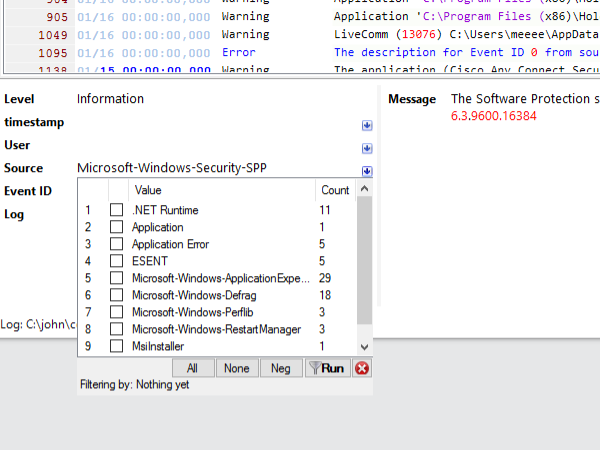
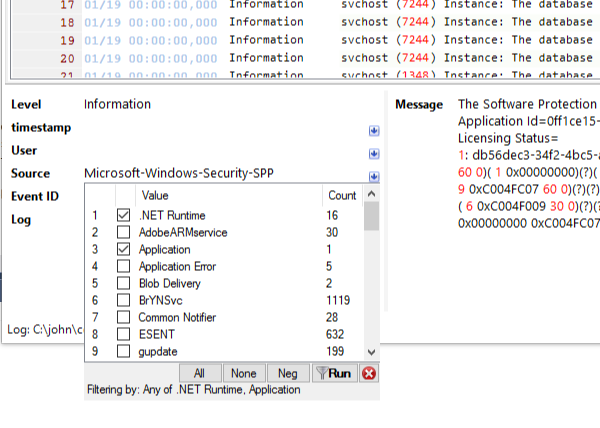
1.9.1b
- updated snoop picture

diff --git a/src/Properties/AssemblyInfo.cs b/src/Properties/AssemblyInfo.cs
@@ -28,7 +28,7 @@ using System.Runtime.InteropServices;
 [assembly: AssemblyConfiguration("")]
 [assembly: AssemblyCompany("John Torjo")]
 [assembly: AssemblyProduct("LogWizard")]
-[assembly: AssemblyCopyright("Copyright ©  2014 - 2015")]
+[assembly: AssemblyCopyright("Copyright ©  2014 - 2016")]
 [assembly: AssemblyTrademark("")]
 [assembly: AssemblyCulture("")]
 
@@ -50,5 +50,5 @@ using System.Runtime.InteropServices;
 // You can specify all the values or you can default the Build and Revision Numbers 
 // by using the '*' as shown below:
 // [assembly: AssemblyVersion("1.0.*")]
-[assembly: AssemblyVersion("1.9.1.0")]
-[assembly: AssemblyFileVersion("1.9.1.0")]
+[assembly: AssemblyVersion("1.9.2.0")]
+[assembly: AssemblyFileVersion("1.9.2.0")]

diff --git a/src/LwFileAssociations/Properties/AssemblyInfo.cs b/src/LwFileAssociations/Properties/AssemblyInfo.cs
@@ -32,5 +32,5 @@ using System.Runtime.InteropServices;
 // You can specify all the values or you can default the Build and Revision Numbers 
 // by using the '*' as shown below:
 // [assembly: AssemblyVersion("1.0.*")]
-[assembly: AssemblyVersion("1.9.1.0")]
-[assembly: AssemblyFileVersion("1.9.1.0")]
+[assembly: AssemblyVersion("1.9.2.0")]
+[assembly: AssemblyFileVersion("1.9.2.0")]

diff --git a/src/lw_common/Properties/AssemblyInfo.cs b/src/lw_common/Properties/AssemblyInfo.cs
@@ -32,5 +32,5 @@ using System.Runtime.InteropServices;
 // You can specify all the values or you can default the Build and Revision Numbers 
 // by using the '*' as shown below:
 // [assembly: AssemblyVersion("1.0.*")]
-[assembly: AssemblyVersion("1.9.1.0")]
-[assembly: AssemblyFileVersion("1.9.1.0")]
+[assembly: AssemblyVersion("1.9.2.0")]
+[assembly: AssemblyFileVersion("1.9.2.0")]

diff --git a/src/tests/test_ui/Properties/AssemblyInfo.cs b/src/tests/test_ui/Properties/AssemblyInfo.cs
@@ -32,5 +32,5 @@ using System.Runtime.InteropServices;
 // You can specify all the values or you can default the Build and Revision Numbers 
 // by using the '*' as shown below:
 // [assembly: AssemblyVersion("1.0.*")]
-[assembly: AssemblyVersion("1.9.1.0")]
-[assembly: AssemblyFileVersion("1.9.1.0")]
+[assembly: AssemblyVersion("1.9.2.0")]
+[assembly: AssemblyFileVersion("1.9.2.0")]

diff --git a/src/docs/history.md b/src/docs/history.md
@@ -1,4 +1,11 @@
 
+1.9.2
+
+
+1.9.1b
+- updated snoop picture
+
+
 1.9.1
 - released to public
 
